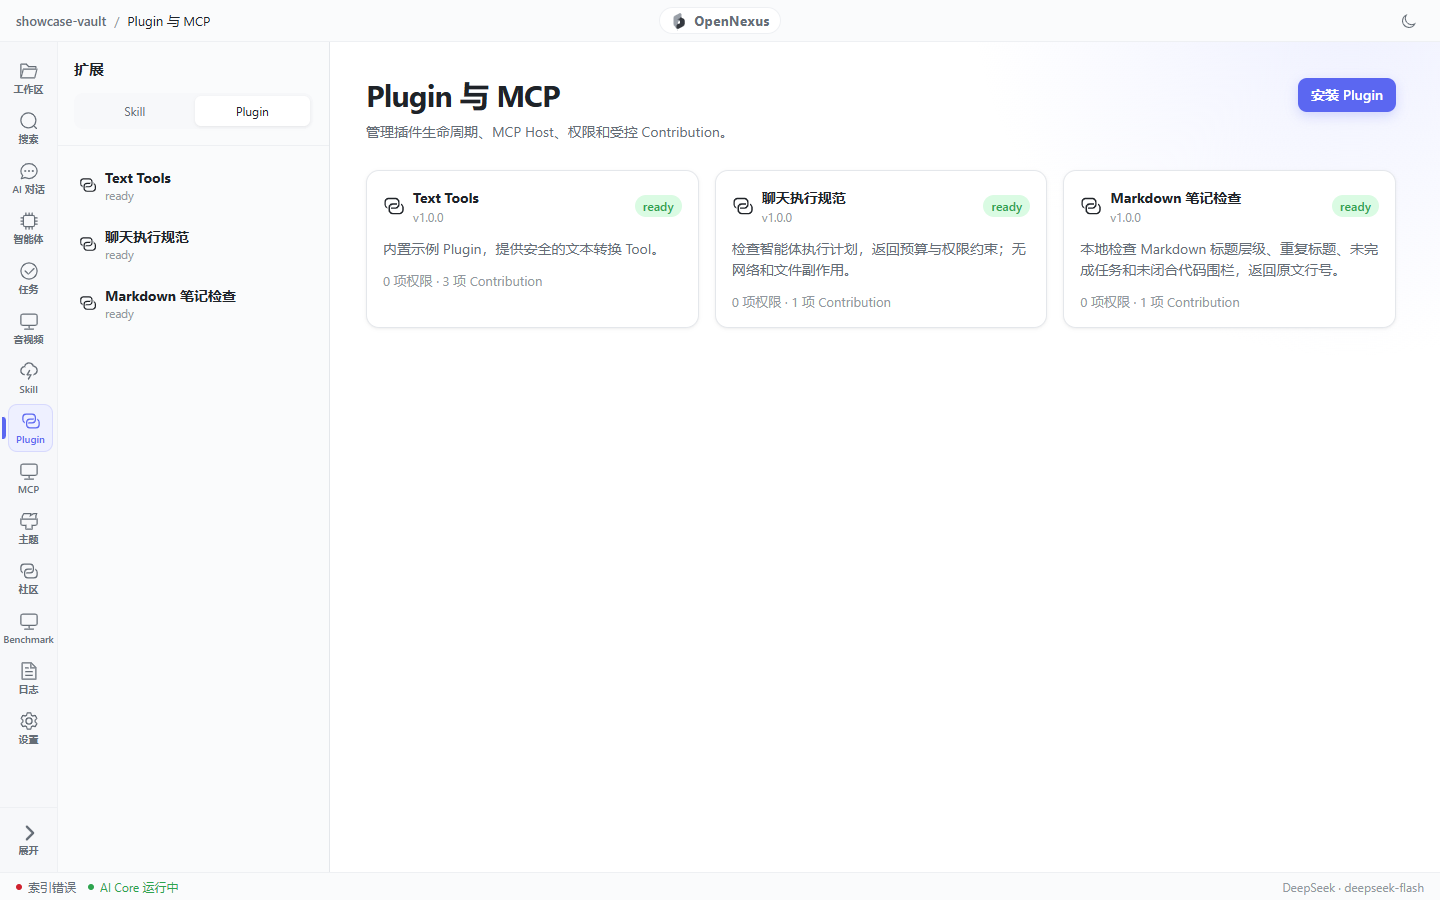
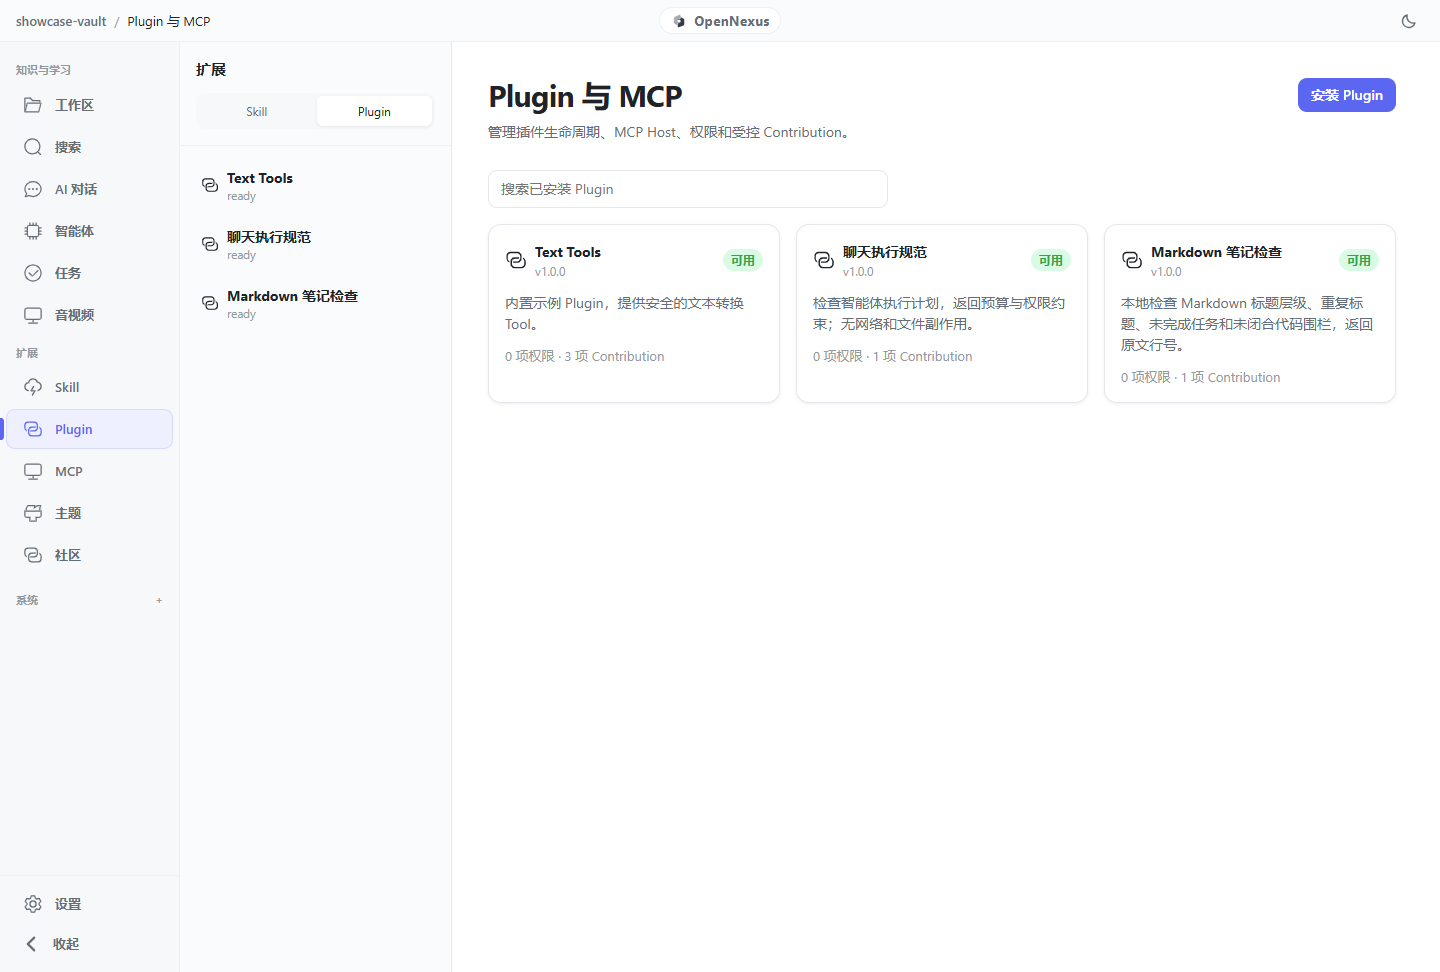
docs(readme): refresh alpha2 interface screenshots

diff --git a/README.md b/README.md
@@ -36,26 +36,26 @@
 > ⚠ **Alpha Notice**: OpenNexus is currently in active alpha (`v0.5.6-alpha2`). Storage schemas, IPC contracts, and extension APIs are evolving. Always back up critical Markdown vaults before updating.
 
 <div align="center">
-  <img src=".github/assets/opennexus-workspace.png" alt="OpenNexus Desktop Workspace" width="95%" />
-  <p><em>The OpenNexus desktop environment: Local Markdown vault, RRF hybrid retrieval, and real-time AI Core status.</em></p>
+  <img src=".github/assets/opennexus-workspace.png" alt="OpenNexus 0.5.6-alpha2 editor toolbar, outline, formulas, and Mermaid diagram" width="95%" />
+  <p><em>OpenNexus 0.5.6-alpha2: screenshots of the shared web frontend running with a copy of the demonstration vault. Native desktop window controls are not shown.</em></p>
 </div>
 
 <table align="center">
   <tr>
-    <td width="50%"><img src=".github/assets/opennexus-transcription.png" alt="Lecture transcription and knowledge-note generation" /></td>
+    <td width="50%"><img src=".github/assets/opennexus-transcription.png" alt="Lecture recording playback and timestamped transcript review" /></td>
     <td width="50%"><img src=".github/assets/opennexus-agent-plan.png" alt="Agent-generated personal learning plan" /></td>
   </tr>
   <tr>
-    <td width="50%"><img src=".github/assets/opennexus-tasks.png" alt="Markdown tasks and Cron-scheduled Agent execution" /></td>
+    <td width="50%"><img src=".github/assets/opennexus-tasks.png" alt="Task status management and rendered Markdown task details" /></td>
     <td width="50%"><img src=".github/assets/opennexus-skill-plugin.png" alt="Skill tools, permissions, retrieval settings, and model capabilities" /></td>
   </tr>
   <tr>
-    <td width="50%"><img src=".github/assets/opennexus-plugins.png" alt="Installed Plugin tools and MCP integrations" /></td>
+    <td width="50%"><img src=".github/assets/opennexus-plugins.png" alt="Installed plugins and local Markdown validation tools" /></td>
     <td width="50%"><img src=".github/assets/opennexus-themes.png" alt="Themes and editor appearance" /></td>
   </tr>
   <tr>
-    <td width="50%"><img src=".github/assets/opennexus-community.png" alt="Community extension catalog" /></td>
-    <td width="50%"><img src=".github/assets/opennexus-settings.png" alt="OpenNexus 0.5.5 settings and task notifications" /></td>
+    <td width="50%"><img src=".github/assets/opennexus-community.png" alt="Community source setup and extension category filters" /></td>
+    <td width="50%"><img src=".github/assets/opennexus-settings.png" alt="OpenNexus 0.5.6-alpha2 general settings and frontend/Core versions" /></td>
   </tr>
 </table>
 

diff --git a/README.zh-CN.md b/README.zh-CN.md
@@ -35,25 +35,25 @@
 > ⚠ **Alpha 阶段提示**：OpenNexus 目前处于早期测试阶段（`v0.5.6-alpha2`）。数据存储 Schema、IPC 契约及扩展接口仍可能调整。在升级新版本前，请务必备份关键的 Markdown 知识库（Vault）。
 
 <div align="center">
-  <img src=".github/assets/opennexus-workspace.png" alt="OpenNexus 桌面工作区" width="95%" />
-  <p><em>OpenNexus 桌面端工作区：本地 Markdown 库导航、RRF 混合检索以及实时 AI 核心状态监控。</em></p>
+  <img src=".github/assets/opennexus-workspace.png" alt="OpenNexus 0.5.6-alpha2 编辑器工具栏、大纲、公式与 Mermaid 图表" width="95%" />
+  <p><em>OpenNexus 0.5.6-alpha2：使用演示知识库副本运行共享 Web 前端的实际截图，不包含原生桌面窗口控制按钮。</em></p>
 </div>
 <table align="center">
   <tr>
-    <td width="50%"><img src=".github/assets/opennexus-transcription.png" alt="课程录音转写与知识点笔记生成" /></td>
+    <td width="50%"><img src=".github/assets/opennexus-transcription.png" alt="课程录音回听与带时间戳的转写校对" /></td>
     <td width="50%"><img src=".github/assets/opennexus-agent-plan.png" alt="Agent 生成个人学习规划" /></td>
   </tr>
   <tr>
-    <td width="50%"><img src=".github/assets/opennexus-tasks.png" alt="Markdown 任务与 Cron 定时 Agent 调用" /></td>
+    <td width="50%"><img src=".github/assets/opennexus-tasks.png" alt="任务状态管理与 Markdown 任务内容展示" /></td>
     <td width="50%"><img src=".github/assets/opennexus-skill-plugin.png" alt="Skill 工具、权限、检索与模型能力配置" /></td>
   </tr>
   <tr>
-    <td width="50%"><img src=".github/assets/opennexus-plugins.png" alt="已安装的 Plugin 工具与 MCP 集成" /></td>
+    <td width="50%"><img src=".github/assets/opennexus-plugins.png" alt="已安装的 Plugin 与本地 Markdown 检查工具" /></td>
     <td width="50%"><img src=".github/assets/opennexus-themes.png" alt="主题与编辑器外观配置" /></td>
   </tr>
   <tr>
-    <td width="50%"><img src=".github/assets/opennexus-community.png" alt="社区扩展目录" /></td>
-    <td width="50%"><img src=".github/assets/opennexus-settings.png" alt="OpenNexus 0.5.5 设置与任务通知" /></td>
+    <td width="50%"><img src=".github/assets/opennexus-community.png" alt="社区来源配置与扩展分类筛选" /></td>
+    <td width="50%"><img src=".github/assets/opennexus-settings.png" alt="OpenNexus 0.5.6-alpha2 通用设置与前端、Core 版本" /></td>
   </tr>
 </table>
 
